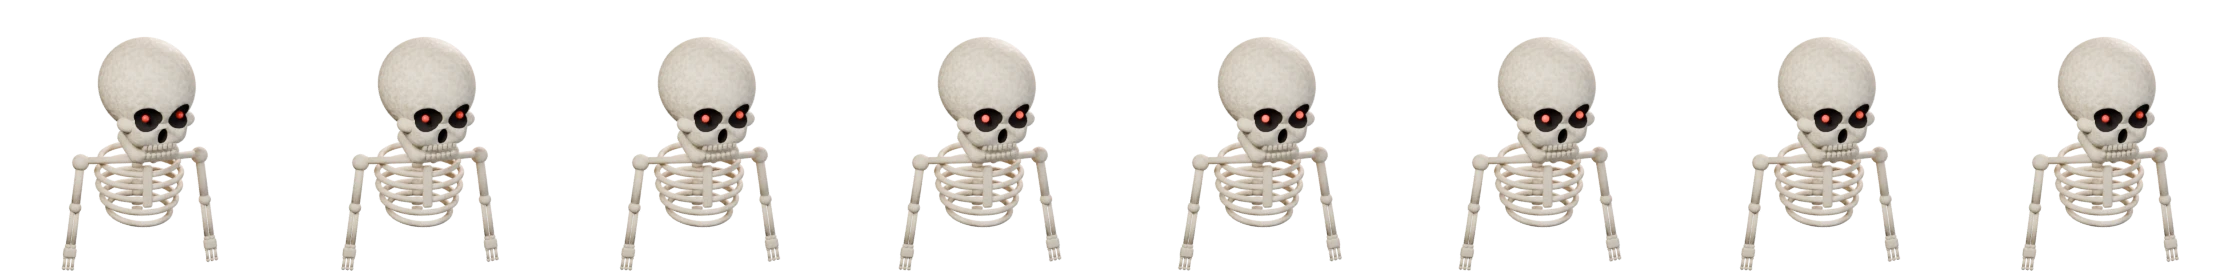
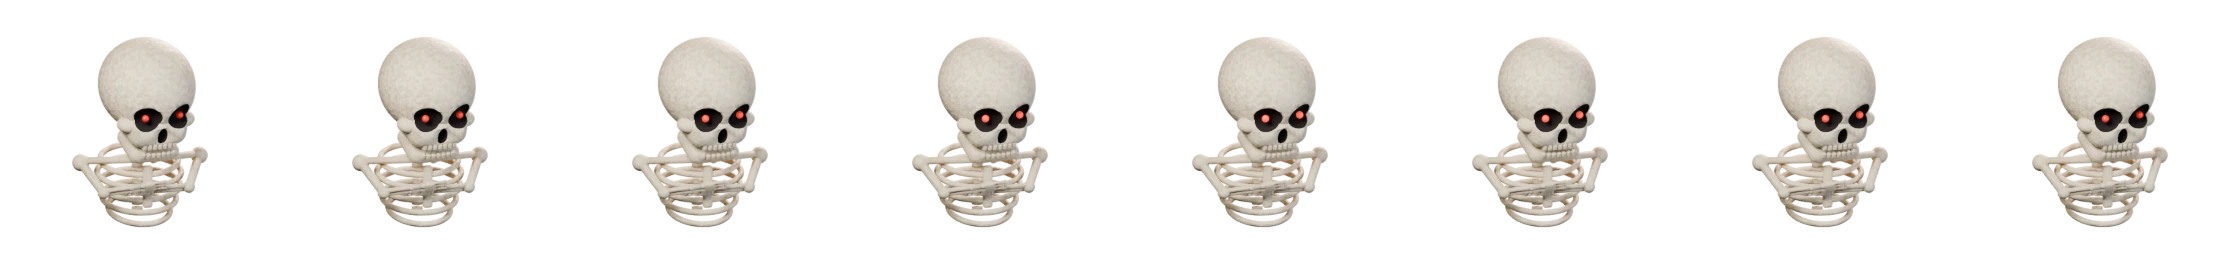
test: the 3D skeleton sleeps with its arms crossed and still
Asleep no longer moves the arms as if breathing. A small solver crosses the
forearms over the chest, elbows forward and in front of the ribs; only the
ember pulse and a slack jaw move.

diff --git a/art/skeleton3d/build.py b/art/skeleton3d/build.py
@@ -348,6 +348,39 @@ def main():
     L("reading arms", RA, RB, "hand", f"{Q.x:.3f} {Q.y:.3f} {Q.z:.3f}")
     L("typing arms", A0, B0, "tip", f"{P0.x:.3f} {P0.y:.3f} {P0.z:.3f}", "key top", key_top)
 
+    # Asleep, the arms lie crossed over the chest and stay still. For each arm, find the shoulder
+    # lift and inward swing, the elbow bend and the forearm swing (about the upper arm) that put its
+    # hand on the opposite side of the chest, with the elbow low and the whole forearm in front of
+    # the ribs. Worked out with plain matrices, since the rig rests upright when the torso does not lean.
+    from mathutils import Euler
+    def cross(side, target, front):
+        S = Vector((0.57 * side, 0, 0.8)); E = Vector((0.57 * side, 0, 0.37)); H = Vector((0.57 * side, 0, -0.06))
+        goal = Vector(target)
+        best = None
+        for a in range(-60, 11, 4):
+            for c in range(-60, 61, 5):
+                Rs = Euler((r(a), 0, r(c)), "XYZ").to_matrix()
+                elbow = S + Rs @ (E - S)
+                if elbow.z > 0.65 or abs(elbow.x) < 0.2 or elbow.y > front:
+                    continue
+                for b in range(-160, 1, 5):
+                    for d in range(-100, 101, 5):
+                        Re = Euler((r(b), 0, r(d)), "XYZ").to_matrix()
+                        hand = S + Rs @ ((E - S) + Re @ (H - E))
+                        mid = (elbow + hand) / 2
+                        if mid.y > front or hand.y > front:
+                            continue
+                        err = (hand - goal).length_squared
+                        if best is None or err < best[0]:
+                            best = (err, a, c, b, d, hand, elbow)
+        _, a, c, b, d, hand, elbow = best
+        L("crossed arm", side, (a, c, b, d), "hand", " ".join(f"{v:.2f}" for v in hand),
+          "elbow", " ".join(f"{v:.2f}" for v in elbow))
+        return (a, 0, c), (b, 0, d)
+    # The left arm crosses slightly higher and in front of the right one, so they do not meet.
+    CROSS_SL, CROSS_EL = cross(-1, (0.2, -0.46, 0.66), -0.34)
+    CROSS_SR, CROSS_ER = cross(1, (-0.2, -0.39, 0.6), -0.32)
+
     # ---------- the clips: (frames, seconds per pass, repeats) ----------
     TYPE = f(DEF, torso=LEAN, head=(10, 0, 0), sl=(A0, 0, 0), sr=(A0, 0, 0), el=(B0, 0, 0), er=(B0, 0, 0),
              props=("keyboard",), jaw=(2, 0, 0))
@@ -373,7 +406,7 @@ def main():
     RING = f(DEF, head=(0, -6, 6), sr=(0, -60, 0), er=(0, -130, 0), props=("bell",), glow=7)
     SCARED = f(DEF, sl=(0, 35, 0), sr=(0, -35, 0), jaw=(18, 0, 0), glow=13)
     ASLEEP = lambda ph: f(DEF, head=(18, 0, 10), jaw=(8 + 1.5 * math.sin(ph), 0, 0),
-                          sl=(0, 7 + 2 * (0.5 - 0.5 * math.cos(ph)), 0), sr=(0, -7 - 2 * (0.5 - 0.5 * math.cos(ph)), 0),
+                          sl=CROSS_SL, el=CROSS_EL, sr=CROSS_SR, er=CROSS_ER,
                           glow=0.2 + 1.0 * (0.5 - 0.5 * math.cos(ph)))
     IDLE = lambda ph: f(DEF, torso=1.0 * (0.5 - 0.5 * math.cos(ph)), head=(2 * (0.5 - 0.5 * math.cos(ph)), 0, 0),
                         sl=(0, 8 + 2 * (0.5 - 0.5 * math.cos(ph)), 0), sr=(0, -8 - 2 * (0.5 - 0.5 * math.cos(ph)), 0))
